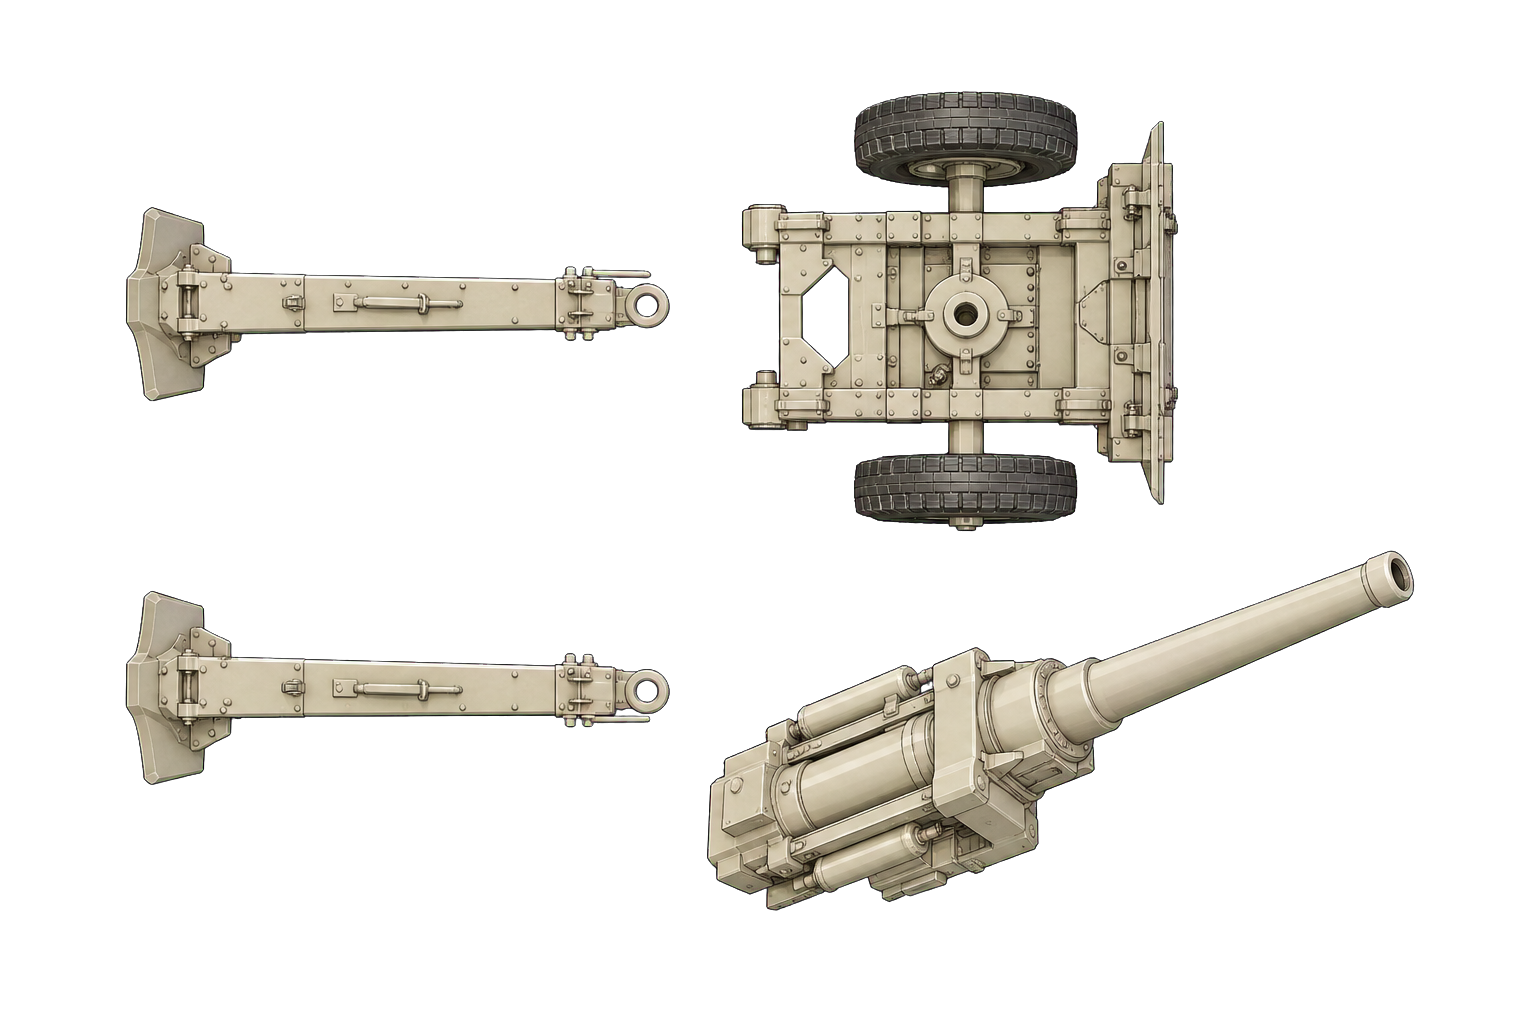
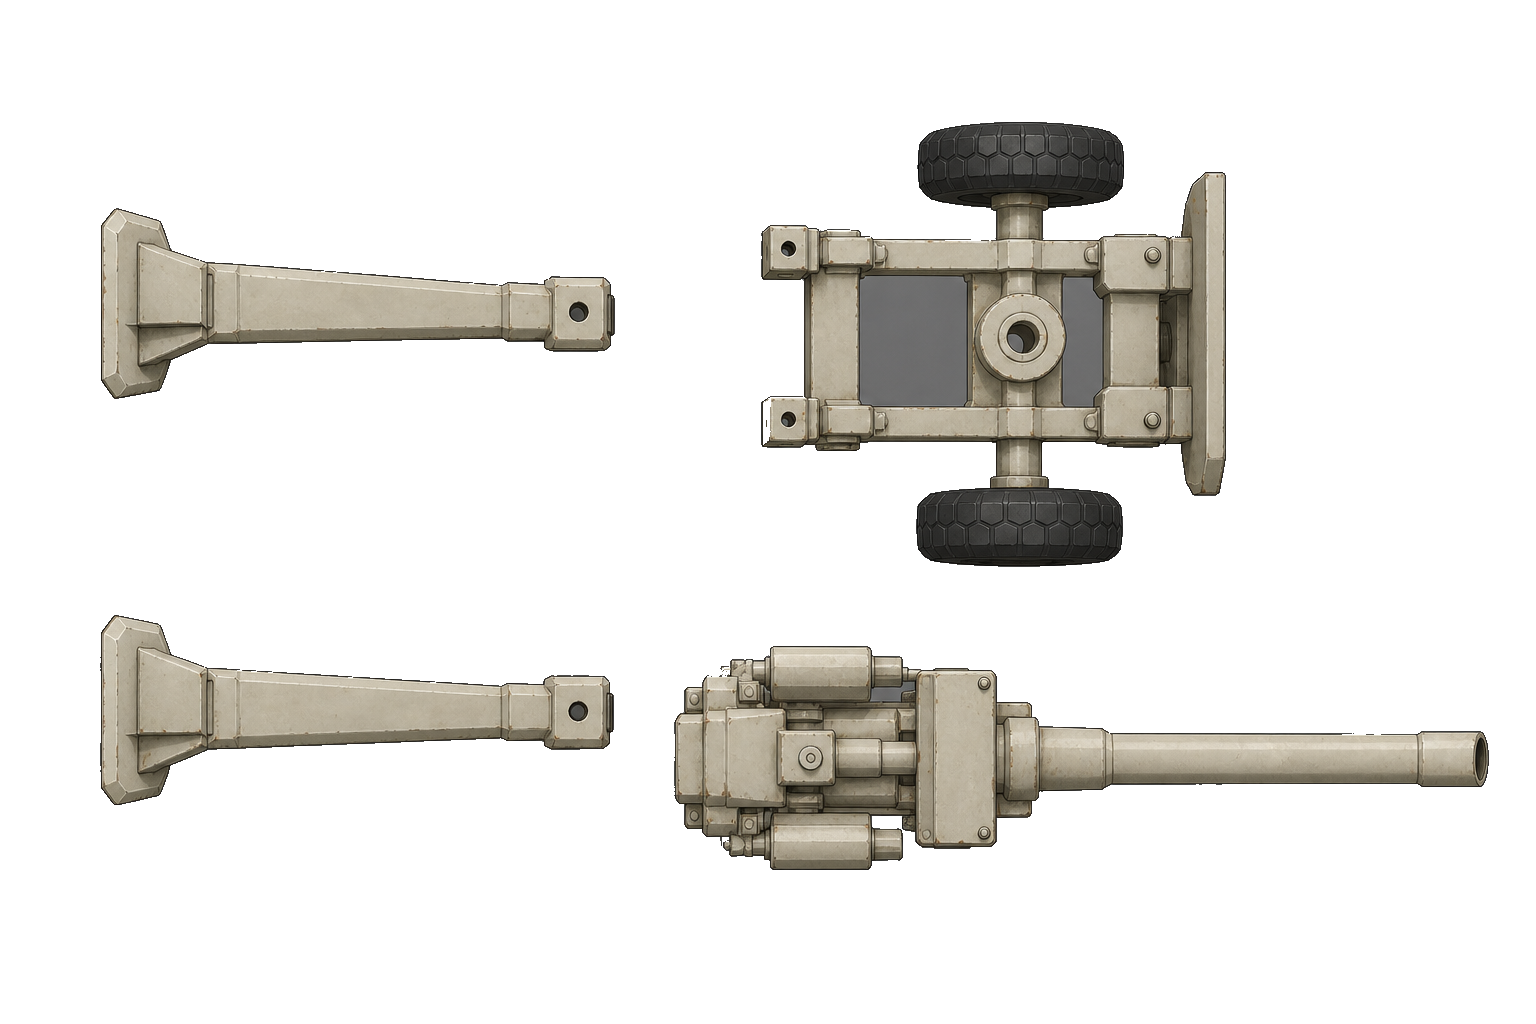
Ship regenerated A-19 artillery sprite
Replace the diagnostic atlas with the selected clean A-19 source, move both trails rearward and outward, and apply owner-team tint to both legs. Update deploy asset guards, rendering documentation, and atlas contracts.

Changed region(s): [[0.0625, 0.5312, 0.9688, 0.9062], [0.4688, 0.0625, 0.8125, 0.5625], [0.0625, 0.1875, 0.4375, 0.4062]]

diff --git a/client/src/renderer/rigs/artillery_png_atlas.js b/client/src/renderer/rigs/artillery_png_atlas.js
@@ -1,8 +1,7 @@
 // Prototype modular A-19 artillery PNG atlas. The SVG rig remains the source
 // of setup visibility, carriage/weapon facing, recoil, muzzle flash, and
 // anchors. This atlas replaces only the visible carriage, trails, and weapon
-// assembly pixels. The support-arm borders and purple left-arm tint are
-// intentional alignment-review diagnostics.
+// assembly pixels. Both trails use the same owner-team tint as the carriage.
 function deepFreeze(value) {
   if (!value || typeof value !== "object") return value;
   Object.freeze(value);
@@ -14,12 +13,13 @@ const CARRIAGE_PPU_X = 14.22;
 const CARRIAGE_PPU_Y = 13.75;
 const TRAIL_PPU = 15;
 const PACKED_TRAIL_PPU = 30;
-const BARREL_PPU_X = 10.4;
-const BARREL_PPU_Y = 12;
+const BARREL_PPU_X = 11.9;
+const BARREL_PPU_Y = 11.9;
 const TRAIL_ROOT_X = -3.024;
+const TRAIL_BACK_SHIFT_RATIO = 0.5;
+const TRAIL_LATERAL_SHIFT_RATIO = 0.1;
 const DEPLOYED_TRAIL_ROTATION = 0.54;
 const PACKED_TRAIL_ROTATION = 0.22;
-const BARREL_SHEET_ROTATION = 0.44;
 const TEAM_TINT_ADJUSTMENT = Object.freeze({ brightness: 82, saturation: 90 });
 
 const WHEEL_NAMES = Object.freeze([
@@ -78,23 +78,23 @@ function sprite(id, animationPart, sourceParts, drawOrder, frame, options = {}) 
 }
 
 const LEFT_TRAIL_FRAME = Object.freeze({
-  x: 110,
-  y: 190,
-  w: 573,
-  h: 228,
-  originX: 539,
-  originY: 115,
+  x: 88,
+  y: 195,
+  w: 541,
+  h: 217,
+  originX: 491,
+  originY: 118,
   pixelsPerUnitX: TRAIL_PPU,
   pixelsPerUnitY: TRAIL_PPU,
 });
 
 const RIGHT_TRAIL_FRAME = Object.freeze({
-  x: 110,
-  y: 574,
-  w: 573,
-  h: 228,
-  originX: 539,
-  originY: 115,
+  x: 87,
+  y: 602,
+  w: 541,
+  h: 216,
+  originX: 491,
+  originY: 111,
   pixelsPerUnitX: TRAIL_PPU,
   pixelsPerUnitY: TRAIL_PPU,
 });
@@ -112,30 +112,33 @@ const RIGHT_TRAIL_PACKED_FRAME = Object.freeze({
 });
 
 const CARRIAGE_FRAME = Object.freeze({
-  x: 735,
-  y: 84,
-  w: 455,
-  h: 440,
-  originX: 231,
-  originY: 229,
+  x: 751,
+  y: 112,
+  w: 485,
+  h: 465,
+  originX: 239,
+  originY: 238,
   pixelsPerUnitX: CARRIAGE_PPU_X,
   pixelsPerUnitY: CARRIAGE_PPU_Y,
 });
 
 const BARREL_ASSEMBLY_FRAME = Object.freeze({
-  x: 699,
-  y: 541,
-  w: 729,
-  h: 380,
-  originX: 248,
-  originY: 248,
+  x: 664,
+  y: 636,
+  w: 835,
+  h: 244,
+  originX: 291,
+  originY: 123,
   pixelsPerUnitX: BARREL_PPU_X,
   pixelsPerUnitY: BARREL_PPU_Y,
 });
 
-function trailSprite(side, suffix, frame, rotationOffset, tintSlot) {
+function trailSprite(side, suffix, frame, rotationOffset) {
   const deployed = suffix === "deployed";
   const names = deployed ? [`trail.${side}`, `foot.${side}`] : [`trail.${side}`];
+  const trailLength = frame.w / Math.abs(frame.pixelsPerUnitX);
+  const trailWidth = frame.h / Math.abs(frame.pixelsPerUnitY);
+  const lateralDirection = side === "left" ? -1 : 1;
   return sprite(
     `sprite.art.${side}Trail.${suffix}`,
     artilleryPart(`trail.${side}`, suffix),
@@ -143,8 +146,10 @@ function trailSprite(side, suffix, frame, rotationOffset, tintSlot) {
     side === "left" ? 15 : 16,
     frame,
     {
-      tintSlot,
-      positionOffsetX: TRAIL_ROOT_X,
+      tintSlot: "team-light",
+      tintAdjustment: TEAM_TINT_ADJUSTMENT,
+      positionOffsetX: TRAIL_ROOT_X - trailLength * TRAIL_BACK_SHIFT_RATIO,
+      positionOffsetY: lateralDirection * trailWidth * TRAIL_LATERAL_SHIFT_RATIO,
       rotationOffset,
     },
   );
@@ -153,16 +158,12 @@ function trailSprite(side, suffix, frame, rotationOffset, tintSlot) {
 export const ARTILLERY_PNG_RIG_ATLAS = deepFreeze({
   enabled: true,
   unit: "artillery",
-  image: "/assets/rigs/artillery-a19-pass-03/generated/artillery-a19-components-pass-03-alpha-debug.png?v=a19-pass03-camera-pitch-purple-left-frame-debug",
+  image: "/assets/rigs/artillery-a19-pass-03/generated/artillery-a19-components-pass-03-alpha.png?v=a19-pass03-d485-spaced-team-tint",
   grid: {
-    profile: "semantic-components-debug",
-    sourceSheet: "client/assets/rigs/artillery-a19-pass-03/generated/artillery-a19-components-pass-03-alpha-debug.png",
+    profile: "semantic-components",
+    sourceSheet: "client/assets/rigs/artillery-a19-pass-03/generated/artillery-a19-components-pass-03-alpha.png",
     generatedSource: "client/assets/rigs/artillery-a19-pass-03/generated/artillery-a19-components-pass-03-source.png",
-    imageVersion: "a19-pass03-camera-pitch-purple-left-frame-debug",
-    diagnostics: {
-      leftTrailTint: "#a05cff",
-      trailFrameStroke: "#000000",
-    },
+    imageVersion: "a19-pass03-d485-spaced-team-tint",
     components: {
       leftTrail: LEFT_TRAIL_FRAME,
       rightTrail: RIGHT_TRAIL_FRAME,
@@ -172,10 +173,10 @@ export const ARTILLERY_PNG_RIG_ATLAS = deepFreeze({
   },
   frames: {},
   sprites: [
-    trailSprite("left", "packed", LEFT_TRAIL_PACKED_FRAME, PACKED_TRAIL_ROTATION, "#a05cff"),
-    trailSprite("right", "packed", RIGHT_TRAIL_PACKED_FRAME, -PACKED_TRAIL_ROTATION, "fixed"),
-    trailSprite("left", "deployed", LEFT_TRAIL_FRAME, DEPLOYED_TRAIL_ROTATION, "#a05cff"),
-    trailSprite("right", "deployed", RIGHT_TRAIL_FRAME, -DEPLOYED_TRAIL_ROTATION, "fixed"),
+    trailSprite("left", "packed", LEFT_TRAIL_PACKED_FRAME, PACKED_TRAIL_ROTATION),
+    trailSprite("right", "packed", RIGHT_TRAIL_PACKED_FRAME, -PACKED_TRAIL_ROTATION),
+    trailSprite("left", "deployed", LEFT_TRAIL_FRAME, DEPLOYED_TRAIL_ROTATION),
+    trailSprite("right", "deployed", RIGHT_TRAIL_FRAME, -DEPLOYED_TRAIL_ROTATION),
     sprite(
       "sprite.art.carriage.packed",
       artilleryPart("axle", "packed"),
@@ -198,11 +199,7 @@ export const ARTILLERY_PNG_RIG_ATLAS = deepFreeze({
       artilleryParts(BARREL_ASSEMBLY_NAMES, "packed"),
       30,
       BARREL_ASSEMBLY_FRAME,
-      {
-        tintSlot: "team-light-soft",
-        tintAdjustment: TEAM_TINT_ADJUSTMENT,
-        rotationOffset: BARREL_SHEET_ROTATION,
-      },
+      { tintSlot: "team-light-soft", tintAdjustment: TEAM_TINT_ADJUSTMENT },
     ),
     sprite(
       "sprite.art.barrelAssembly.deployed",
@@ -210,11 +207,7 @@ export const ARTILLERY_PNG_RIG_ATLAS = deepFreeze({
       artilleryParts(BARREL_ASSEMBLY_NAMES, "deployed"),
       31,
       BARREL_ASSEMBLY_FRAME,
-      {
-        tintSlot: "team-light-soft",
-        tintAdjustment: TEAM_TINT_ADJUSTMENT,
-        rotationOffset: BARREL_SHEET_ROTATION,
-      },
+      { tintSlot: "team-light-soft", tintAdjustment: TEAM_TINT_ADJUSTMENT },
     ),
   ],
 });

diff --git a/docs/design/raster-unit-art-handoff.md b/docs/design/raster-unit-art-handoff.md
@@ -73,11 +73,11 @@ material colors; the `#ff00ff` key remains only the background key, never the un
 - `client/src/renderer/rigs/png_runtime.js` and `png_routing.js` render atlas sprites in place of
   SVG pixels when an atlas is enabled and loaded.
 - `client/assets/rigs/artillery-a19-pass-03/` keeps the regenerated modular A-19 source sheet, the
-  alpha-converted diagnostic atlas, and its prompt summary. `artillery_png_atlas.js` maps the two
+  alpha-converted runtime atlas, and its prompt summary. `artillery_png_atlas.js` maps the two
   independent trails, carriage, and barrel/recoil assembly back onto the Artillery SVG animation
   bindings. The separate weapon assembly is pitched toward the elevated camera with visible muzzle
-  and recoil-housing depth. The left trail is deliberately purple and both trail crop frames carry
-  black borders during pivot/origin review; neither treatment is final art direction.
+  and recoil-housing depth. Both trails use owner-team tint, render without diagnostic crop borders,
+  and sit half a rendered trail-length farther behind the carriage with ten-percent outward spacing.
 - `client/assets/rigs/rifleman-pass-02/` keeps the enabled rifleman pass-02 source sheet, alpha
   conversion, compact runtime strip, prompt, and manifest.
 - `client/src/renderer/rigs/rifleman_png_strip.js` and
@@ -359,16 +359,16 @@ cheap checks before any generated atlas can be enabled.
   components receive runtime `team-light` tint with a dimmed saturation/brightness adjustment, tire
   overlays remain fixed-color, and the tube still follows the stronger SVG weapon recoil binding
   independently from the carriage recoil.
-- `artillery-a19-pass-03`: active alignment experiment. Regenerated as four disconnected A-19
+- `artillery-a19-pass-03`: active modular raster rig. Regenerated as four disconnected A-19
   components: two support arms, a frame/wheel carriage, and a separate elevated barrel with an
   oversized recoil assembly pitched out of the ground plane toward the elevated camera. The visible
   muzzle face and foreshortened barrel make the indirect-fire elevation distinct from a flat
   diagonal rotation. The SVG rig remains
   authoritative for setup visibility, carriage and weapon facing, recoil, muzzle flash, and anchors.
-  Runtime review colors the left arm purple and
-  renders a black rectangle around each arm's complete crop frame so subsequent rotation feedback
-  can refer to the actual image footprint and mounting origin. The frame treatment and fixed trail
-  colors are temporary diagnostics, not accepted production presentation.
+  Runtime presentation gives both trails the owner-team tint, removes the crop-frame diagnostics,
+  and places the trails half their rendered length farther back plus one tenth of their rendered
+  width outward from center. The selected source and alpha atlas are the accepted game presentation
+  for this pass.
 
 These candidates are useful references for what to avoid. None should be treated as accepted art.
 

diff --git a/client/assets/rigs/artillery-a19-pass-03/metadata/prompt-summary.md b/client/assets/rigs/artillery-a19-pass-03/metadata/prompt-summary.md
@@ -11,14 +11,13 @@ face is visible, the barrel is foreshortened, and the recoil housing exposes
 clear depth while the carriage and trails retain an RTS above-view. This makes
 the elevation read as indirect-fire artillery rather than a diagonal flat gun.
 
-Runtime review treatment remains temporary:
+The selected source sheet is now used without diagnostic framing. Runtime placement:
 
-- the upper source trail maps to the in-game left trail and receives a fixed
-  purple tint;
-- both complete trail crop frames carry a black rectangular border;
+- the upper source trail maps to the in-game left trail;
+- both trails receive the owner-team tint;
+- each trail moves rearward by half of its rendered length and outward by one
+  tenth of its rendered width;
 - the mounting-ring center is the origin for each trail;
-- a fixed sheet-space rotation aligns the pitched weapon assembly with the SVG
-  rig's authoritative weapon-facing angle;
 - the SVG Artillery rig remains authoritative for setup visibility, carriage
   and weapon facing, recoil, muzzle flash, and gameplay anchors.
 